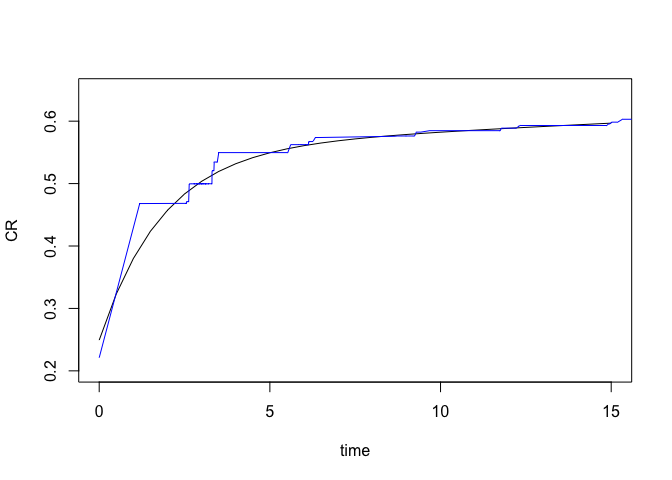
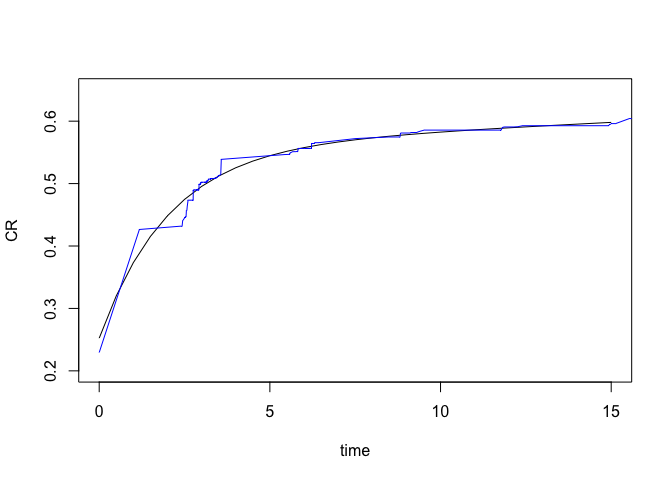
updated README

diff --git a/README.md b/README.md
@@ -54,21 +54,21 @@ library(PICmodel)
 sim.thetas <- c(-5, -1.6, -1.2, 0.25)
 sim.dat <- model.simulator(3000, c(), c(), c(), sim.thetas, show_prob = 0.9, interval=3, include.h=T)
 head(sim.dat) # view simulated data
-#>        left    right z      age    age.std hpv cyt cause      actual
-#> 1  0.000000 3.307372 0 30.79577 -0.8191893   0   0     2   0.8789059
-#> 2 24.125708      Inf 0 59.84236  0.4445814   0   0     3 588.8258836
-#> 3  0.000000 3.195702 0 33.64968 -0.6950203   0   0     2   0.3646629
-#> 4 23.861327      Inf 0 41.19456 -0.3667547   1   0     3  38.9862333
-#> 5  2.838286 6.351851 0 58.96564  0.4064367   1   0     2   3.1132863
-#> 6  0.000000 0.000000 1 36.43077 -0.5740195   1   1     1   0.0000000
+#>      left     right  z      age    age.std hpv cyt cause    actual
+#> 1  0.0000  2.936714 NA 41.79124 -0.3602243   0   0     3  2.138136
+#> 2 21.0141 24.064706  0 44.72637 -0.2331472   1   0     3 22.359147
+#> 3  0.0000  0.000000  1 46.90608 -0.1387764   1   0     1  0.000000
+#> 4  0.0000  3.167310 NA 64.06899  0.6042943   0   0     1  0.000000
+#> 5  0.0000  0.000000  1 54.68161  0.1978662   0   0     1  0.000000
+#> 6  0.0000  2.971963  0 46.33303 -0.1635869   0   0     2  1.005333
 
 sim.fit <- model.fit(c(), c(), c(), sim.dat) # fit model to simulated data
 sim.fit$summary # view model fit summary
 #>        param theta.hat std.dev   lower   upper
-#> h          h   -5.1005  0.1009 -5.2983 -4.9028
-#> g0 intercept   -1.5490  0.0553 -1.6574 -1.4406
-#> w0 intercept   -1.1106  0.0628 -1.2337 -0.9875
-#> p0 intercept    0.2528  0.0082  0.2367  0.2689
+#> h          h   -5.0154  0.1019 -5.2151 -4.8156
+#> g0 intercept   -1.6237  0.0535 -1.7285 -1.5188
+#> w0 intercept   -1.2448  0.0630 -1.3683 -1.1213
+#> p0 intercept    0.2524  0.0082  0.2363  0.2684
 
 sim.predict <- model.predict(c(), c(), c(), data=sim.dat[1,], time.points = seq(0, 15, 0.5), fit=sim.fit)
 
@@ -92,23 +92,23 @@ as a covariate for prevalence then we would d the following:
 sim.thetas.cov <- c(-5, -1.6, 1, -1.2, -3, 4)
 sim.dat2 <- model.simulator(5000, c("hpv"), c(), c("cyt"), sim.thetas.cov, show_prob = 0.9, interval=3, include.h=T)
 head(sim.dat2) # view simulated data
-#>       left    right z      age    age.std hpv cyt cause       actual
-#> 1  0.00000 3.032322 0 60.73083  0.4781152   1   0     2   0.09349551
-#> 2 24.18070      Inf 0 32.76657 -0.7327870   0   0     3 130.23374620
-#> 3  0.00000 0.000000 1 63.47095  0.5967670   0   1     1   0.00000000
-#> 4 23.94109      Inf 0 45.29004 -0.1904987   0   0     3 177.88445660
-#> 5 21.29337      Inf 0 55.49882  0.2515597   0   1     3  88.17857980
-#> 6  0.00000 0.000000 1 68.20954  0.8019566   0   0     1   0.00000000
+#>        left    right z      age      age.std hpv cyt cause     actual
+#> 1  0.000000 3.083559 0 38.17603 -0.513049138   1   0     2   1.289715
+#> 2 23.455882      Inf 0 49.79450 -0.006752224   0   0     3  72.228146
+#> 3  0.000000 0.000000 1 45.22406 -0.205917774   1   0     1   0.000000
+#> 4  0.000000 0.000000 1 53.22681  0.142817490   0   1     1   0.000000
+#> 5  3.354585 5.988839 0 42.77547 -0.312619582   1   0     2   3.493650
+#> 6 23.947902      Inf 0 60.24844  0.448798204   0   0     3 432.020861
 
 sim.fit2 <- model.fit(c("hpv"), c(), c("cyt"), sim.dat2) # fit model to simulated data
 sim.fit2$summary # view model fit summary
 #>        param theta.hat std.dev   lower   upper
-#> h          h   -4.9110  0.0827 -5.0731 -4.7489
-#> g0 intercept   -1.6187  0.0478 -1.7124 -1.5251
-#> g1       hpv    0.9499  0.0665  0.8195  1.0802
-#> w0 intercept   -1.2700  0.0510 -1.3699 -1.1700
-#> p0 intercept   -3.0586  0.0932 -3.2412 -2.8759
-#> p1       cyt    3.9981  0.1061  3.7901  4.2061
+#> h          h   -4.8715  0.0769 -5.0222 -4.7208
+#> g0 intercept   -1.6057  0.0508 -1.7053 -1.5061
+#> g1       hpv    1.0150  0.0681  0.8816  1.1485
+#> w0 intercept   -1.1442  0.0525 -1.2471 -1.0413
+#> p0 intercept   -2.9472  0.0884 -3.1205 -2.7739
+#> p1       cyt    3.8994  0.1019  3.6997  4.0991
 
 sim.predict2 <- model.predict(c("hpv"), c(), c("cyt"), data=data.frame(hpv = c(1, 1, 0, 0), cyt=c(1, 0, 1, 0)), 
                               time.points = seq(0, 15, 0.5), fit=sim.fit2)
@@ -139,7 +139,7 @@ legend("bottomright",
          col=c("darkblue", "darkgreen", "deeppink2", "darkorange3"), lty=1, lwd=2, bty = "n", cex=0.75)
 ```
 
-<img src="man/figures/README-example3-1.png" width="100%" />
+<img src="man/figures/README-example3-1.png" width="50%" />
 
 ## Upcoming
 
